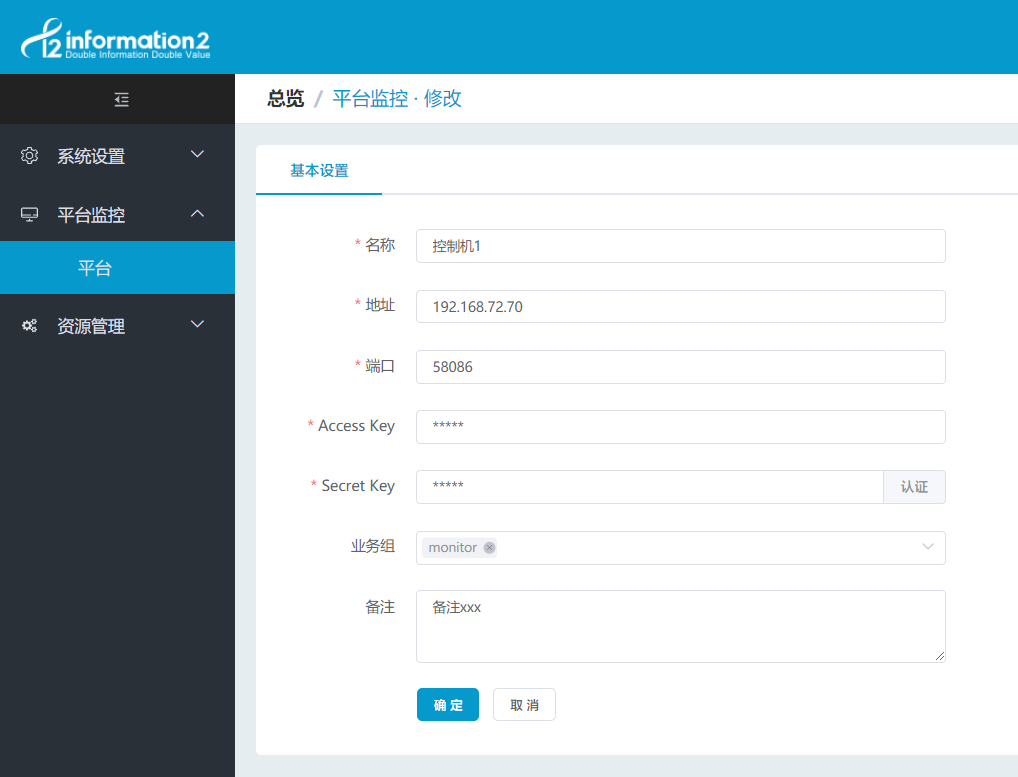
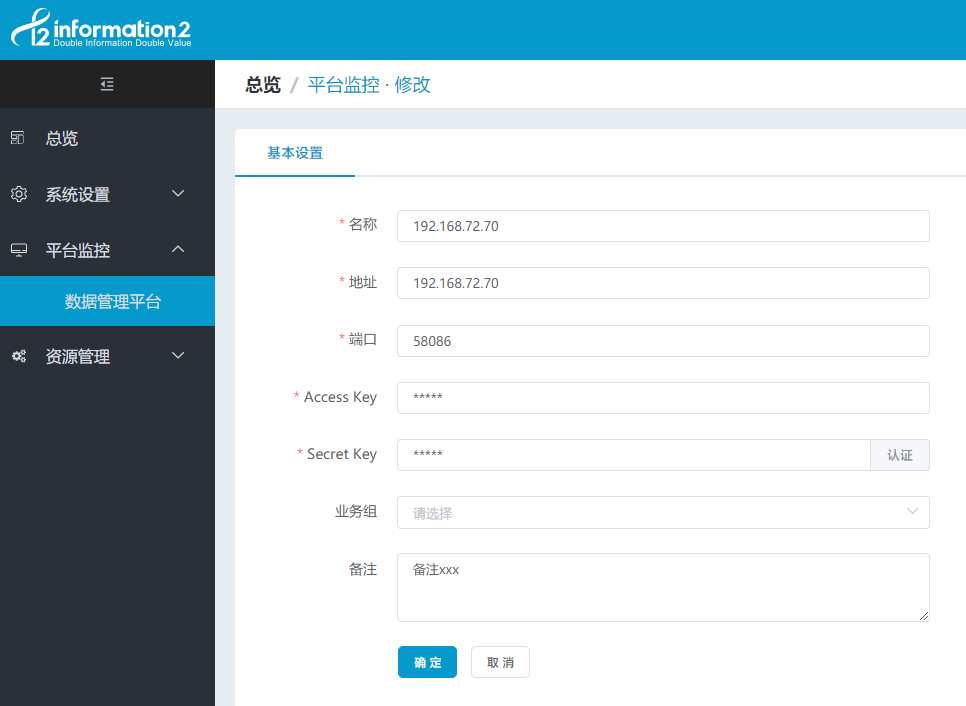
IM: 平台监控，调整模块顺序，更新图片；

diff --git a/up_monitor/up_monitor.md b/up_monitor/up_monitor.md
@@ -1,8 +1,34 @@
 ## 平台监控
 
-用一台`英方统一监控管理平台`（监控管理平台，下称监控平台）可以方便的管理多台`英方统一数据管理平台`（数据管理平台，下称子平台）；
+用一台 `英方统一监控管理平台`（监控管理平台，下称监控平台）可以方便的管理多台`英方统一数据管理平台`（数据管理平台，下称子平台）；
 
 在监控平台中添加子平台后，可以查看子平台上节点、规则等的状态，和系统资源占用情况，也可以免密登入子平台进行更详细的操作；
+
+### 监控平台总览
+
+如果您需要查看 **所有** 子平台上的节点、规则等信息汇总，您可以点击左上方的“总览”按钮，或直接点击页面左上角的LOGO，进入总览页面；
+
+![](/assets/V7.2.20190410104839.png)
+
+**注意：**
+```
+列表中节点、规则、概览、系统信息、以及总览页面中的内容，3min自动刷新一次；
+也可以点平台列表右边操作栏的“刷新”操作，立即刷新这些数据；
+```
+
+### 添加、修改平台
+
+![](/assets/V7.2.20190410104133.png)
+
+表单内容
+
+* “名称”：给子平台命名；
+* “地址”：子平台IP地址；
+* “端口”：子平台端口，默认58086；
+* “Access Key”、“Secret Key”：从子平台 **[密钥管理](/system_management/accesskey_management.md)** 生成的一对密钥；
+* “认证”：点击后会尝试用用密钥登陆子平台，认证成功才能提交；
+* “业务组”：可以对平台进行分组，详见 **[业务组管理](/resource_management/groupmanagement.md)**；
+* “备注”：备注；
 
 ### 平台列表
 
@@ -14,30 +40,16 @@
 
 * “名称”：该平台的名称；
 * “地址”：该平台的IP地址；
-* “状态”：该平台的状态，分为“在线”、“离线”两种，可以在[系统参数](/system_management/sys_settings.md)中更改刷新频率；
+* “状态”：该平台的状态，分为“在线”、“离线”两种，可以在 **[系统参数](/system_management/sys_settings.md)** 中更改刷新频率；
 * “节点/规则/HA/VP/VP规则”：该平台上对应模块的状态，显示为“正常数量/总数量”；
 * “数据更新时间”：上次更新节点、规则等状态的时间；
 * “操作”：
   * “登入”：免密登入子平台中，可以对其上节点、规则等进行操作；
-  * “概览”：查看子平台上节点、规则等的详细情况，详见下文[概览](#子平台概览)；
-  * “系统信息”：查看子平台上硬盘、CPU等的详细情况，详见下文[系统信息](#系统信息)；
-  * “修改”：修改子平台信息，详见下文[添加、修改平台](#添加、修改平台)；
+  * “概览”：查看子平台上节点、规则等的详细情况，详见 **[概览](#子平台概览)**；
+  * “系统信息”：查看子平台上硬盘、CPU等的详细情况，详见 **[系统信息](#系统信息)**；
+  * “修改”：修改子平台信息，详见 **[添加、修改平台](#添加、修改平台)**；
   * “删除”：如果您需要删除某些平台，可以点击“删除”按钮；您还可以勾选需要删的平台，然后点击页面底部的“删除”按钮，即可删除不需要的平台了；
-  * “刷新”：立即刷新列表中节点、规则、概览、系统信息、以及[总览](#监控平台总览)页面中的内容；
-
-### 添加、修改平台
-
-![](/assets/V7.2.20190410104133.png)
-
-表单内容
-
-* “名称”：给子平台命名；
-* “地址”：子平台IP地址；
-* “端口”：子平台端口，默认58086；
-* “Access Key”、“Secret Key”：从子平台[密钥管理](/system_management/accesskey_management.md)生成的一对密钥；
-* “认证”：点击后会尝试用用密钥登陆子平台，认证成功才能提交；
-* “业务组”：可以对平台进行分组，详见[业务组管理](/resource_management/groupmanagement.md)；
-* “备注”：备注；
+  * “刷新”：立即刷新列表中节点、规则、概览、系统信息、以及 **[总览](#监控平台总览)** 页面中的内容；
 
 ### 系统信息
 
@@ -45,20 +57,11 @@
 
 ![](/assets/V7.2.20190410104256.png)
 
+1. CPU、内存、网络信息，需要控制机上 安装节点 并 开启监控功能，详见 **[节点管理](/resource_management/node_mangement.md)**；
+2. 如果关闭监控，CPU、内存、网络信息会消失；
+
 ### 子平台概览
 
 如果您需要查看某些子平台上的节点、规则等信息，您可以点击平台列表右边操作栏“概览”按钮；
 
 ![](/assets/V7.2.20190410104159.png)
-
-### 监控平台总览
-
-如果您需要查看所有子平台上的节点、规则等信息，您可以点击平台列表左上方的“总览”按钮，或直接点击页面左上角的LOGO，进入总览页面；
-
-![](/assets/V7.2.20190410104839.png)
-
-**注意：**
-```
-列表中节点、规则、概览、系统信息、以及总览页面中的内容，3min自动刷新一次；
-也可以点平台列表右边操作栏的“刷新”操作，立即刷新这些数据；
-```

diff --git a/system_management/accesskey_management.md b/system_management/accesskey_management.md
@@ -1,6 +1,6 @@
 ## 密钥管理
 
-功能：用于[平台监控](/up_monitor/README.md)时监控平台与子间平台的认证；
+功能：用于 **[平台监控](/up_monitor/README.md)** 时监控平台与子间平台的认证；
 
 注意：监控平台上不会显示此配置页；
 
@@ -14,6 +14,6 @@
 
 **注意：**
 ```
-生成的密钥与当前登录的用户绑定；
+生成的密钥 与 当前登录的用户 绑定；
 即：用该密钥访问此平台，等同于用生成密钥时用户的用户名密码登录；
 ```
